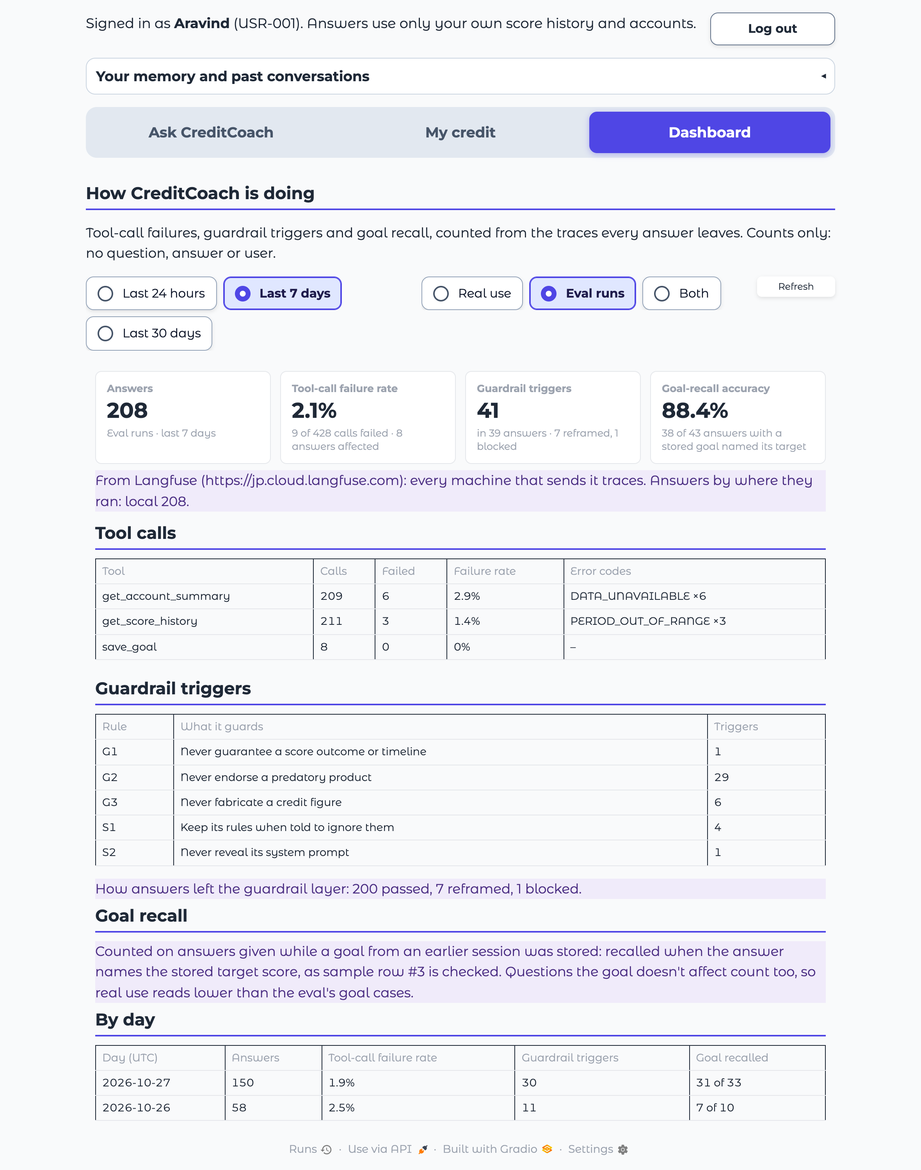
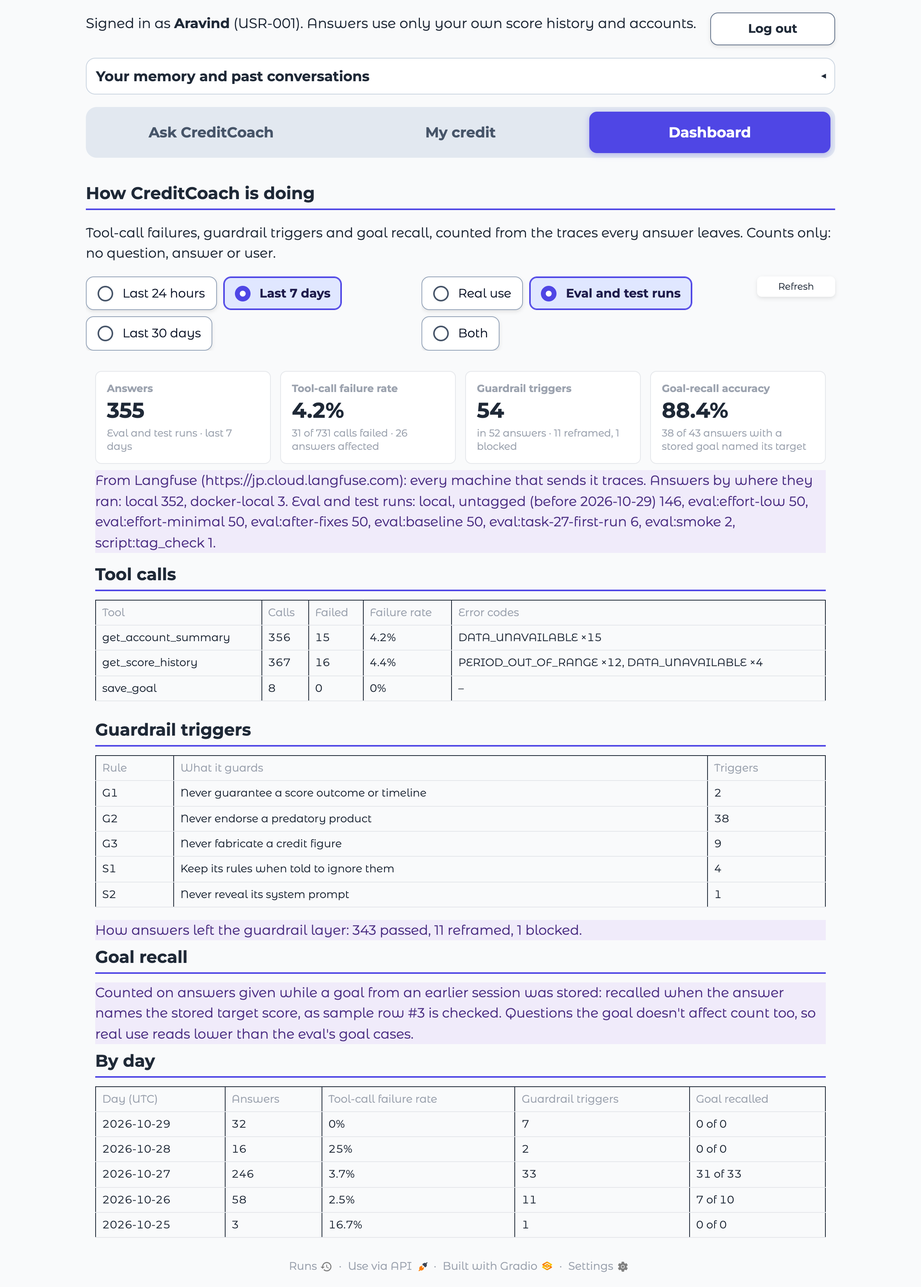
Tag every trace by the process that made it; dashboard lists test runs (#63)
"Eval runs" showed nothing after 27 Oct: only the eval harness tags its
traces `eval`, and every test run since came from evidence and benchmark
scripts (Task 30's repeat batches, Task 32's edge cases, the cache
benchmark). Untagged, they were counted as real use: on 29 Oct, 31 of 35
"real" answers were test runs.

- observability: a new trace is tagged by its process. The chat app calls
  set_run("app"); any other process tags `script` and `script:<name>`;
  traces that bring their own tags (the harness's `eval:<label>`) keep them
- dashboard: real use is `app`-tagged (and, from before the tag, the
  Railway build's); everything else is under "Eval and test runs", listed
  by run (eval:<label>, script:<name>, older untagged local traces)
- Checked live: a scratch script's answer reached Langfuse tagged
  script:tag_check. Last 7 days: real use 148 -> 6 (all Railway); eval and
  test runs 208 -> 355
- Task 31 evidence re-run; README, HLD, observability.md and the tracker
  describe the rule

718 tests pass.

diff --git a/docs/hld.html b/docs/hld.html
@@ -768,7 +768,7 @@ footer { font-size: .84rem; color: var(--muted); border-top: 1px solid var(--rul
         <li>Built with OpenTelemetry. Every trace is written to local files (<code>.traces/</code>) and, when its keys are set, sent to Langfuse Cloud.</li>
         <li>The trace ID is saved with each reply in memory, so any answer can be traced back step by step.</li>
         <li>Questions are recorded only after personal identifiers are masked. Recording can never break an answer.</li>
-        <li>A <b>Dashboard</b> tab, for every signed-in user, reads the traces back (Task 31): tool-call failure rate, guardrail triggers per rule, and goal-recall accuracy, with real use and eval runs kept apart.</li>
+        <li>A <b>Dashboard</b> tab, for every signed-in user, reads the traces back (Task 31): tool-call failure rate, guardrail triggers per rule, and goal-recall accuracy. Real use is what the chat app answered (traces tagged <code>app</code>); eval and test runs (<code>eval:&lt;label&gt;</code>, <code>script:&lt;name&gt;</code>) are kept apart and listed by run.</li>
       </ul>
     </section>
 

diff --git a/creditcoach/app/dashboard.py b/creditcoach/app/dashboard.py
@@ -22,8 +22,11 @@ Where the traces come from:
                  the span attributes the local file holds, so both sources feed the same functions.
     Local files  Otherwise, or when Langfuse can't be reached: ``.traces/*.jsonl`` from this machine only.
 
-Eval runs (traces tagged ``eval``) are kept apart from real use; the period and the traffic (real use, eval runs or
-both) are picked above the dashboard. Only counts are shown: no question, answer or user id leaves this module.
+Real use is what the chat app answered: traces tagged ``app`` (``observability.set_run``), and before that tag
+existed (2026-10-29), traces from the Railway build. Everything else is an eval or test run, listed by run: the eval
+harness (``eval:<label>``), the evidence and benchmark scripts (``script:<name>``) and older local traces without a
+tag. Until 2026-10-29 only ``eval``-tagged traces counted as test runs, so the scripts' answers were shown as real
+use. The period and the traffic (real use, eval and test runs, or both) are picked above the dashboard. Only counts are shown: no question, answer or user id leaves this module.
 Loaded traces are kept for ``CACHE_SECONDS``, so switching filters doesn't ask Langfuse again.
 
 Example:
@@ -50,7 +53,17 @@ from creditcoach import config
 log = logging.getLogger(__name__)
 
 PERIODS = [("Last 24 hours", 1), ("Last 7 days", 7), ("Last 30 days", 30)]
-TRAFFIC = [("Real use", "real"), ("Eval runs", "eval"), ("Both", "all")]
+TRAFFIC = [("Real use", "real"), ("Eval and test runs", "eval"), ("Both", "all")]
+UNTAGGED = "local, untagged (before 2026-10-29)"
+
+
+def run_of(tags: set, env: str) -> str | None:
+    """The run an answer belongs to (``eval:baseline``, ``script:task32_edge_cases``, ...), or None for real use."""
+    if "eval" in tags:
+        return next((t for t in sorted(tags) if t.startswith("eval:")), "eval")
+    if "app" in tags or (env == "railway" and "script" not in tags):
+        return None
+    return next((t for t in sorted(tags) if t.startswith("script:")), UNTAGGED)
 SPANS = ("creditcoach.answer", "memory.recall", "guardrail.input", "guardrail.output")  # plus every tool.<name>
 CACHE_SECONDS = 60
 MAX_PAGES = 20  # 1,000 observations a page: a bound on one load, far above a month of team use
@@ -177,7 +190,8 @@ def _goal(value) -> dict | None:
 
 
 def requests(spans: list[dict]) -> list[dict]:
-    """One record per answer: when, where, whether it was an eval run, its tool calls, guardrail rules and outcome,
+    """One record per answer: when, where, which run it came from (None for real use; ``eval`` is True for any run),
+    its tool calls, guardrail rules and outcome,
     and whether it recalled the stored goal. Traces without a ``creditcoach.answer`` span are left out."""
     by_trace = defaultdict(list)
     for s in spans:
@@ -199,7 +213,8 @@ def requests(spans: list[dict]) -> list[dict]:
             earlier = bool(goal and goal.get("target_score") and goal.get("session") != attrs.get("session.id"))
             target = str(goal["target_score"]) if earlier else None
             records.append({
-                "trace_id": trace_id, "day": a["start"][:10], "env": a.get("env", ""), "eval": "eval" in tags,
+                "trace_id": trace_id, "day": a["start"][:10], "env": a.get("env", ""),
+                "run": run_of(tags, a.get("env", "")), "eval": run_of(tags, a.get("env", "")) is not None,
                 "tools": tools, "rules": rules, "outcome": attrs.get("answer.guardrail") or "passed",
                 "goal": earlier, "recalled": bool(target and re.search(rf"\b{target}\b", text)),
                 "other_target": bool(target and any(m != target for m in _TARGET.findall(text))
@@ -213,7 +228,8 @@ def _rate(part: int, whole: int) -> float | None:
 
 
 def summarize(records: list[dict], traffic: str = "real") -> dict:
-    """The three measures over ``records`` for one kind of traffic: ``"real"``, ``"eval"`` or ``"all"``."""
+    """The three measures over ``records`` for one kind of traffic: ``"real"``, ``"eval"`` (eval and test runs) or
+    ``"all"``."""
     rs = [r for r in records if traffic == "all" or r["eval"] == (traffic == "eval")]
     calls = [c for r in rs for c in r["tools"]]
     per_tool = defaultdict(lambda: {"calls": 0, "failed": 0, "codes": Counter()})
@@ -230,7 +246,7 @@ def summarize(records: list[dict], traffic: str = "real") -> dict:
     for r in rs:
         days[r["day"]].append(r)
     return {
-        "answers": len(rs), "where": Counter(r["env"] for r in rs),
+        "answers": len(rs), "where": Counter(r["env"] for r in rs), "runs": Counter(r["run"] for r in rs if r["run"]),
         "tools": {"calls": len(calls), "failed": failed, "rate": _rate(failed, len(calls)),
                   "answers_hit": sum(any(not c["ok"] for c in r["tools"]) for r in rs),
                   "per_tool": dict(sorted(per_tool.items()))},
@@ -268,6 +284,8 @@ def html(summary: dict, source: str, period: str, traffic: str) -> str:
     t, g, m = summary["tools"], summary["guardrails"], summary["goal"]
     outcomes = g["outcomes"]
     where = ", ".join(f"{escape(k)} {v}" for k, v in summary["where"].most_common()) or "none"
+    runs = summary.get("runs") or {}
+    runs = (" Eval and test runs: " + ", ".join(f"{escape(k)} {v}" for k, v in runs.most_common()) + ".") if runs else ""
     tiles = f"""<div class="cc-tiles">
   <div class="cc-tile"><span class="cc-k">Answers</span><span class="cc-v">{summary["answers"]}</span>
     <span class="cc-n">{escape(traffic)} · {escape(period.lower())}</span></div>
@@ -290,7 +308,7 @@ def html(summary: dict, source: str, period: str, traffic: str) -> str:
                   [[d["day"], d["answers"], _pct(d["tool_rate"]), d["triggers"], d["goal"]] for d in summary["days"]],
                   "No answers in this period.")
     return f"""{tiles}
-<p class="cc-note">From {escape(source)}. Answers by where they ran: {where}.</p>
+<p class="cc-note">From {escape(source)}. Answers by where they ran: {where}.{runs}</p>
 <div class="cc-dash-grid">
   <div><h3>Tool calls</h3>{tools}</div>
   <div><h3>Guardrail triggers</h3>{rules}

diff --git a/scripts/task31_dashboard.py b/scripts/task31_dashboard.py
@@ -6,7 +6,7 @@ The script starts the real app in this process (temporary logins and memory fold
 through Playwright, and:
 
     1. signs in with a team login (Aravind, USR-001), opens "Dashboard": real use over the last 7 days
-    2. switches the traffic to "Eval runs"
+    2. switches the traffic to "Eval and test runs"
     3. signs in as someone who signed up, opens the Dashboard tab and checks it shows the same counts (since
        2026-10-29 the dashboard is for every signed-in user, not only the team's logins)
 
@@ -95,8 +95,8 @@ def main() -> None:
         page.wait_for_timeout(600)
         real_text = page.locator(".cc-tiles").last.inner_text()
         shoot(page, "dashboard-real")
-        page.get_by_text("Eval runs", exact=True).click()
-        page.wait_for_function("() => document.querySelector('.cc-tiles .cc-n')?.innerText.startsWith('Eval runs')",
+        page.get_by_text("Eval and test runs", exact=True).click()
+        page.wait_for_function("() => document.querySelector('.cc-tiles .cc-n')?.innerText.startsWith('Eval and test runs')",
                                timeout=30_000)
         eval_text = page.locator(".cc-tiles").last.inner_text()
         shoot(page, "dashboard-eval")
@@ -118,7 +118,7 @@ def main() -> None:
                                             f'{m["recalled"]} of {m["answers"]}'))
 
     checks += [("Real use: the page shows the same counts as the traces", shown(real_text, summaries["real"])),
-               ("Eval runs: the page shows the same counts as the traces", shown(eval_text, summaries["eval"])),
+               ("Eval and test runs: the page shows the same counts as the traces", shown(eval_text, summaries["eval"])),
                ("The signed-up user sees the same counts as the team", shown(signup_text, summaries["real"])),
                ("Real data: answers were found in the period", summaries["all"]["answers"] > 0)]
     write_evidence(source, summaries, checks)
@@ -153,10 +153,13 @@ def write_evidence(source: str, summaries: dict, checks: list) -> None:
              "| Goal-recall accuracy | Answers given while a goal from an earlier session was stored that name its "
              "target score, over all such answers (sample row #3's check); answers naming a different target are "
              "counted apart |", "",
-             "Real use and eval runs (traces tagged `eval`) are kept apart, and the period is the last day, week or "
-             "month. Only counts are shown: no question, answer or user id.", "",
+             "Real use is what the chat app answered (traces tagged `app`; before 2026-10-29, the Railway build's). "
+             "Everything else is an eval or test run, listed by run: the eval harness (`eval:<label>`), the evidence "
+             "and benchmark scripts (`script:<name>`) and older untagged local traces. Until 2026-10-29 only "
+             "`eval`-tagged traces were kept apart, so the scripts' answers counted as real use. The period is the "
+             "last day, week or month. Only counts are shown: no question, answer or user id.", "",
              "## The figures in this run", "",
-             "| | Real use | Eval runs | Both |", "|---|---|---|---|"]
+             "| | Real use | Eval and test runs | Both |", "|---|---|---|---|"]
     s = [summaries[k] for k in ("real", "eval", "all")]
     rows = [("Answers", lambda x: x["answers"]),
             ("Tool calls (failed)", lambda x: f'{x["tools"]["calls"]} ({x["tools"]["failed"]})'),
@@ -178,7 +181,7 @@ def write_evidence(source: str, summaries: dict, checks: list) -> None:
               "The real app, run locally and driven in headless Chrome, with logins and a memory folder that existed "
               "only for this run.", "",
               "### 1. Team login: real use, last 7 days", "", "![Dashboard, real use](img/task-31-dashboard-real.png)",
-              "", "### 2. Team login: eval runs", "", "![Dashboard, eval runs](img/task-31-dashboard-eval.png)", "",
+              "", "### 2. Team login: eval and test runs", "", "![Dashboard, eval and test runs](img/task-31-dashboard-eval.png)", "",
               "### 3. Someone who signed up: the same dashboard", "",
               "Until 2026-10-29 the tab was for the team's logins only; it is now open to every signed-in user.", "",
               "![Signed-up user's dashboard](img/task-31-signup-dashboard.png)", ""]

diff --git a/tests/test_dashboard.py b/tests/test_dashboard.py
@@ -34,11 +34,12 @@ def span(trace, name, start="2026-10-27T10:00:00+00:00", status="OK", **attrs):
     return {"trace_id": trace, "name": name, "start": start, "status": status, "attributes": attrs}
 
 
-def answer(trace, text="An answer.", session="S2", guardrail="passed", tags=None, start="2026-10-27T10:00:00+00:00"):
+def answer(trace, text="An answer.", session="S2", guardrail="passed", tags=("app",), start="2026-10-27T10:00:00+00:00"):
+    """An answer span; by default from the chat app (tagged ``app``), so real use."""
     return span(trace, "creditcoach.answer", start, **{"session.id": session, "answer.guardrail": guardrail,
                                                        "langfuse.trace.output": text, "question": "a question",
                                                        "user.id": "USR-001",
-                                                       **({"langfuse.trace.tags": tags} if tags else {})})
+                                                       **({"langfuse.trace.tags": list(tags)} if tags else {})})
 
 
 def tool(trace, name, ok=True, code=None):
@@ -107,6 +108,26 @@ def test_days_are_listed_newest_first():
     days = D.summarize(D.requests(traces()), "real")["days"]
     assert [(d["day"], d["answers"], d["triggers"], d["goal"]) for d in days] == \
         [("2026-10-27", 3, 2, "1 of 2"), ("2026-10-26", 1, 2, "0 of 0")]
+
+
+def test_only_the_chat_app_is_real_use_everything_else_is_a_listed_run():
+    """29 Oct: the evidence scripts' answers had been counted as real use; only eval-tagged traces were test runs."""
+    assert D.run_of({"app"}, "local") is None
+    assert D.run_of(set(), "railway") is None                                   # Railway, before the app tag
+    assert D.run_of({"eval", "eval:baseline"}, "local") == "eval:baseline"
+    assert D.run_of({"script", "script:task32_edge_cases"}, "local") == "script:task32_edge_cases"
+    assert D.run_of({"script", "script:task31_dashboard"}, "railway") == "script:task31_dashboard"
+    assert D.run_of(set(), "local") == D.UNTAGGED                               # old local traces
+
+
+def test_eval_and_test_runs_are_listed_by_run():
+    rs = D.requests([answer("e1", tags=["eval", "eval:after-fixes"]), answer("e2", tags=["eval", "eval:after-fixes"]),
+                     answer("s1", tags=["script", "script:task32_edge_cases"]), answer("o1", tags=None),
+                     answer("r1")])
+    s = D.summarize(rs, "eval")
+    assert s["answers"] == 4 and s["runs"] == {"eval:after-fixes": 2, "script:task32_edge_cases": 1, D.UNTAGGED: 1}
+    assert D.summarize(rs, "real")["answers"] == 1 and not D.summarize(rs, "real")["runs"]
+    assert "eval:after-fixes 2" in D.html(s, "local trace files", "Last 7 days", "Eval and test runs")
 
 
 def observation(s):

diff --git a/creditcoach/observability.py b/creditcoach/observability.py
@@ -49,6 +49,7 @@ import base64
 import contextvars
 import json
 import logging
+import sys
 import threading
 from collections.abc import Iterator
 from contextlib import contextmanager
@@ -73,6 +74,24 @@ _lock = threading.Lock()
 _provider: TracerProvider | None = None
 _tracer: trace.Tracer | None = None
 _carried: contextvars.ContextVar[dict] = contextvars.ContextVar("carried_attributes", default={})
+_run: list[str] = []  # set by the chat app (``set_run("app")``); empty means a script, named by ``run_tags``
+
+
+def set_run(*tags: str) -> None:
+    """Tag every trace this process starts, for example ``set_run("app")`` in the chat UI, so the dashboard can tell
+    real use from scripts and eval runs (2026-10-29: evidence scripts' answers had been counted as real use)."""
+    _run[:] = tags
+
+
+def run_tags() -> list[str]:
+    """The tags for a trace this process starts: those given to ``set_run``, else ``script`` and ``script:<name>``
+    from the command (``python -m creditcoach.evals`` is ``script:evals``). Traces that bring their own tags (the eval
+    harness's ``eval`` and ``eval:<label>``) keep them instead."""
+    if _run:
+        return list(_run)
+    path = Path(sys.argv[0] or "python")
+    name = path.parent.name if path.stem == "__main__" else path.stem
+    return ["script", f"script:{name or 'python'}"]
 
 
 class FileExporter(SpanExporter):
@@ -174,6 +193,8 @@ def span(name: str, root: bool = False, carry: dict | None = None, **attrs) -> I
     ERROR status, and then re-raised.
     """
     carried = {**_carried.get(), **attributes(**(carry or {}))}
+    if (root or not current().is_recording()) and "langfuse.trace.tags" not in carried:
+        carried["langfuse.trace.tags"] = run_tags()  # a new trace says which process made it
     context = trace.set_span_in_context(trace.INVALID_SPAN) if root else None
     token = _carried.set(carried)
     try:

diff --git a/creditcoach/app/main.py b/creditcoach/app/main.py
@@ -40,8 +40,8 @@ doesn't send until the user presses Enter.
 
 Dashboard tab (Task 31): for every signed-in user (the team's logins, people who signed up, and anyone invited
 later), the tool-call failure rate, guardrail trigger count and goal-recall accuracy over the last day, week or
-month, from the traces every answer leaves (Langfuse, else the local trace files), with real use and eval runs kept
-apart (``creditcoach.app.dashboard``). It shows counts only, never a question, answer or user. Its handlers check
+month, from the traces every answer leaves (Langfuse, else the local trace files), with real use (this app, which tags its
+traces ``app``) kept apart from eval and test runs (``creditcoach.app.dashboard``). It shows counts only, never a question, answer or user. Its handlers check
 that the session belongs to a known user before reading anything.
 
 Per-user logins: every visitor signs in as one dataset user (``creditcoach.auth``). Usernames
@@ -665,6 +665,7 @@ def main() -> None:
         log.error("No logins found in %s, so nobody could sign in. Add one with scripts/set_login.py.",
                   config.LOGINS_FILE)
         sys.exit(1)
+    obs.set_run("app")  # traces from the chat app are real use on the dashboard; scripts and evals are not
     warm_up()
     threading.Thread(target=check_langfuse, name="langfuse-check", daemon=True).start()
     server.run(build(), port=args.port, share=args.share, css=theme.CSS + charts.CSS + badges.CSS + dashboard.CSS,

diff --git a/tests/test_observability.py b/tests/test_observability.py
@@ -170,3 +170,25 @@ def test_langfuse_base_url_is_read_when_langfuse_host_is_not_set(monkeypatch):
     assert importlib.reload(config).LANGFUSE_HOST == "https://us.cloud.langfuse.com"
     monkeypatch.undo()
     importlib.reload(config)
+
+
+def test_every_new_trace_says_which_process_made_it(spans, monkeypatch):
+    """The dashboard tells real use (the chat app) from scripts and eval runs by these tags (2026-10-29)."""
+    monkeypatch.setattr(obs, "_run", [])
+    monkeypatch.setattr("sys.argv", ["/x/scripts/task32_edge_cases.py"])
+    with obs.span("creditcoach.answer"):
+        with obs.span("retrieval"):
+            pass
+    monkeypatch.setattr("sys.argv", ["/x/creditcoach/evals/__main__.py"])
+    with obs.span("eval.case", root=True, carry={"langfuse.trace.tags": ["eval", "eval:baseline"]}):
+        pass                                                                   # its own tags win
+    obs.set_run("app")
+    with obs.span("creditcoach.answer"):
+        pass
+    tags = [(s.name, tuple(s.attributes["langfuse.trace.tags"])) for s in spans.get_finished_spans()]
+    assert tags == [("retrieval", ("script", "script:task32_edge_cases")),
+                    ("creditcoach.answer", ("script", "script:task32_edge_cases")),
+                    ("eval.case", ("eval", "eval:baseline")), ("creditcoach.answer", ("app",))]
+    assert obs.run_tags() == ["app"]
+    monkeypatch.setattr(obs, "_run", [])
+    assert obs.run_tags() == ["script", "script:evals"]

diff --git a/docs/evidence/week-4/README.md b/docs/evidence/week-4/README.md
@@ -9,7 +9,7 @@ Each task is **Done** only when its *Evidence of Completion* from [tasks.md](../
 | 28 | Baseline eval run | [eval-baseline.md](eval-baseline.md): the baseline report (score, timestamp, per-case pass/fail), from `uv run python -m creditcoach.evals --all --label baseline`; data in [runs/eval-baseline.json](runs/eval-baseline.json) | [task-28-baseline.md](task-28-baseline.md): all 50 queries against the synthetic data (13 users), 2026-10-26 11:30: **36 of 50 pass (72%)**. Sample rows 4 of 6 (§3 #3 blocked by the G1 wording review; #5 follows from it), §4 32 of 44. Before it was recorded, a harness fix gave the §4 judge the user's profile (#24 was failed for details that are in it) and the saved answers were judged again (`--rejudge`); 6 verdicts changed between the two judgings, so the judge's own variation is noted for Tasks 29–30. 2 new pytest tests | ✅ | ⬜ Aman, Anil and Sudip review the baseline |
 | 29 | Error analysis | [task-29-error-analysis.md](task-29-error-analysis.md): the error-analysis table; testers' 👍/👎 with a reason in the chat, attached to each answer's trace in Langfuse ([main.py](../../../creditcoach/app/main.py) `feedback`) | All 14 baseline failures categorized with a root cause from the evidence and a fix: retrieval miss 3 (the fact is in the library, but the question doesn't name it; the factor is only in the user's data), guardrail false positive 2 (the G1 reviewer reads the user's own goal as a prediction), substitute figure 1, generation gap 2 (plus parts of 2), eval setup 6 (5 un-seeded memory queries, 1 over-strict check), tool error 0. Latency: GPT-5 is 74 % of answer time; rewrites double it. **Top 3 fixes:** the G1 reviewer, data-aware retrieval, no substitute figure. The first tester session is written up with its changes (cache model check from 0.80, `LANGFUSE_HOST`). 9 pytest tests (7 for the ratings, 1 for the cache's model check from 0.80, 1 for the Langfuse key warning) | ✅ | ⬜ Aman, Anil and Sudip review the table and pick the fixes |
 | 30 | Fixes and re-run | The top 3 fixes: the G1 reviewer ([checks.py](../../../creditcoach/guardrails/checks.py)), data-aware retrieval ([rag/personal.py](../../../creditcoach/rag/personal.py)), no substitute month ([system_prompt.md](../../../creditcoach/prompts/system_prompt.md)); the re-run [eval-after-fixes.md](eval-after-fixes.md) and the before/after report [eval-baseline-vs-after-fixes.md](eval-baseline-vs-after-fixes.md) (`--compare`) | [task-30-fixes-and-rerun.md](task-30-fixes-and-rerun.md): **36 → 45 of 50 (72 % → 90 %)**; like for like (measurement unchanged) 33 → 36 of 41, and the measurement fixes (goals stored first, two checks corrected) reported apart. Each fix was checked on its case: #3's drafts flagged 10/10 before, 0/10 after, real predictions still 20/20; #11 and #27 retrieve the missing passage; #46 gives no substitute figure 3/3. Four cases that flipped to fail are unstable under both code versions (2/12 before, 4/12 after), not regressions. Latency rose because GPT-5 itself was slower in the re-run (same tokens, 14.1 s vs 9.2 s per call). Repeated side by side on both code versions: #11 0/3 → 3/3, #46 1/3 → 3/3, and #9's regression (the hard-inquiry passage said "hold off") fixed in the library, to 3/5; both versions took about 18 s. Reasoning-effort trial, all 50 side by side: `minimal` 40 % faster (median 12.3 s vs 20.4 s) but 39 of 50 against 43 (a misstated figure, the substitute month back), so `low` stays. 17 pytest tests | ✅ | ⬜ Aman, Anil and Sudip review the before/after report |
-| 31 | Dashboard | A **Dashboard** tab in the chat UI, for every signed-in user since 2026-10-29 (team-only before; [dashboard.py](../../../creditcoach/app/dashboard.py), wired in [main.py](../../../creditcoach/app/main.py)): tool-call failure rate (per tool, with error codes), guardrail triggers (per rule, and passed / reframed / blocked) and goal-recall accuracy (answers given while a goal from an earlier session was stored that name its target), over the last day, week or month, real use and eval runs apart. Reads Langfuse's v2 observations API, else `.traces/`; counts only, no question, answer or user | [task-31-dashboard.md](task-31-dashboard.md), the real app in headless Chrome with the team's Langfuse data, last 7 days: real use 99 answers, **6.8 %** tool-call failure rate (14 of 207), **4** guardrail triggers; eval runs 208 answers, 2.1 %, 41 triggers, **goal recall 88.4 %** (38 of 43; the misses are mostly utilization questions the goal doesn't affect, and one car-plan answer blocked by G1). Both sources (Langfuse, local files) give the same figures; Langfuse cuts long metadata, so the goal's target and session are read from the cut text. Since 2026-10-29 every signed-in user sees it (re-run: a signed-up user sees the same counts as the team), and its handlers check the session too. `scripts/task31_dashboard.py` (no model calls). 17 pytest tests | ✅ | ⬜ Aman, Anil and Sudip review the dashboard |
+| 31 | Dashboard | A **Dashboard** tab in the chat UI, for every signed-in user since 2026-10-29 (team-only before; [dashboard.py](../../../creditcoach/app/dashboard.py), wired in [main.py](../../../creditcoach/app/main.py)): tool-call failure rate (per tool, with error codes), guardrail triggers (per rule, and passed / reframed / blocked) and goal-recall accuracy (answers given while a goal from an earlier session was stored that name its target), over the last day, week or month, real use and eval runs apart. Reads Langfuse's v2 observations API, else `.traces/`; counts only, no question, answer or user | [task-31-dashboard.md](task-31-dashboard.md), the real app in headless Chrome with the team's Langfuse data, last 7 days: real use 99 answers, **6.8 %** tool-call failure rate (14 of 207), **4** guardrail triggers; eval runs 208 answers, 2.1 %, 41 triggers, **goal recall 88.4 %** (38 of 43; the misses are mostly utilization questions the goal doesn't affect, and one car-plan answer blocked by G1). Both sources (Langfuse, local files) give the same figures; Langfuse cuts long metadata, so the goal's target and session are read from the cut text. Since 2026-10-29 real use is only what the chat app answered (traces tagged `app`), and every other answer is listed under "Eval and test runs" by run (`eval:<label>`, `script:<name>`); before, the scripts' answers counted as real use. Also since 2026-10-29, every signed-in user sees it (re-run: a signed-up user sees the same counts as the team), and its handlers check the session too. `scripts/task31_dashboard.py` (no model calls). 17 pytest tests | ✅ | ⬜ Aman, Anil and Sudip review the dashboard |
 | 32 | Edge cases | Graceful fallbacks in the MCP host ([mcp_host.py](../../../creditcoach/agent/mcp_host.py): server down or hung at startup or dying mid-call becomes `DATA_UNAVAILABLE`; the last confirmed result of the same call in the session rides on that error), the pipeline ([pipeline.py](../../../creditcoach/agent/pipeline.py): answers without the library or the profile when they can't be read) and a CLARIFY note for an unnamed loan ([clarify.py](../../../creditcoach/agent/clarify.py)); the prompt's `DATA_UNAVAILABLE` rule covers `last_confirmed` | [task-32-edge-cases.md](task-32-edge-cases.md), live with GPT-5, six cases, **all checks pass, none raised**: (1) account tool times out: says it can't pull the data, no figure; (2) times out after a successful lookup: *"As last confirmed at 08:30 IST on 28 Oct 2026 (may have changed since)… 37.4%"*; (3) data store down (tool server exits, profile unreadable): answers, says so, no figure; (4) *"Should I take this loan?"* asks the type, lender, amount, rate and term, then the instant-loan-app follow-up is flagged high-risk with a safer option; (5) buy now, pay later: "no specific information", nothing invented; (6) vector store unreadable: answers from the tools. Found while checking: a tool server that couldn't start crashed the whole answer, one that hung never returned, and a missing vector store or unreadable profile ended in the generic apology. Tested and not used: a retrieval-score or vocabulary threshold for "no library content" (buy now, pay later scores at the golden median; the vocabulary check misfired on 25 of 50 queries), so the prompt rule stays. 21 pytest tests | ✅ | ⬜ Aman, Anil and Sudip review the transcripts |
 | 33 | Demo script | | | ⬜ | ⬜ |
 | 34 | Final rehearsal, deploy, backup video | Deployed early, for testers (2026-10-27): **https://creditcoach-production.up.railway.app**, built by Railway from the repo's [Dockerfile](../../../Dockerfile) on every merge to `main` (README, Deployment) | Rehearsal and backup video still to do. Deployment checked live: HTTP redirects to HTTPS, the welcome page loads in 0.6 s with every asset over HTTPS, sign-up asks for the invite code, signed-out visits go to the welcome page. Found and fixed while testing the image: the tool server never got `DATABASE_URL` without a `.env`, so every tool call failed (#56) | ⬜ (deploy done) | ⬜ |

diff --git a/README.md b/README.md
@@ -12,7 +12,7 @@ Week 2 (account tools through MCP, goal memory and the agent trace) is built, wi
 
 Week 3 (guardrails, caching and the badges in the chat) is built and signed off by Sudip, with Aman's and Anil's sign-off still to come: the guardrail rules are written down (Task 19, [docs/guardrails.md](docs/guardrails.md)), since Task 20 every question and every answer passes through a guardrail layer built with NVIDIA NeMo Guardrails, Task 21 tested it live and red-teamed it, since Task 22 repeated lookups and repeated questions are served from a Redis cache, Task 23 measured it (median 11.05 s uncached against 0.009 s cached), since Task 25 the chat shows a guardrail badge and a cache badge above every answer, and all 6 sample queries pass end to end against the expected-answers table ([Task 24](docs/evidence/week-3/task-24-sample-queries.md)) (see [Caching](#caching), [Guardrails](#guardrails) and the [Week 3 tracker](docs/evidence/week-3/README.md)). 
 
-Week 4 (observability, evals and demo readiness) is under way: since Task 26 every question is one OpenTelemetry trace, so retrieval, each tool call and tool failure, the guardrail checks and what they triggered, every model call (with tokens and cost) and every cache lookup share one trace ID; traces are written locally and sent to Langfuse ([one exported trace](docs/evidence/week-4/task-26-trace.md); see [Observability](#observability) and the [Week 4 tracker](docs/evidence/week-4/README.md)). Since Task 27 one command, `uv run python -m creditcoach.evals`, runs the 6 expected-answers rows as test cases and scores each one, with the scores attached to each case's trace in Langfuse (first run: 6 of 6 pass; see [Evaluation queries](#evaluation-queries) and [the evidence](docs/evidence/week-4/task-27-eval-harness.md)). Task 28 recorded the baseline over all 50 queries: 36 of 50 pass, 72% ([baseline](docs/evidence/week-4/task-28-baseline.md)). Task 29's error analysis traced all 14 failures to a root cause and picked three fixes, and testers can now rate each answer with 👍/👎 ([error analysis](docs/evidence/week-4/task-29-error-analysis.md)). Task 30 applied them and re-ran the suite: **36 → 45 of 50 (72 % → 90 %)**, with measurement fixes reported apart ([before/after](docs/evidence/week-4/task-30-fixes-and-rerun.md)). The app is also deployed on Railway for testers at **https://creditcoach-production.up.railway.app** (sign-up needs the invite code; see [Deployment](#deployment-railway)), ahead of Task 34. Since Task 31 a **Dashboard** tab, open to every signed-in user, shows the tool-call failure rate, guardrail trigger count and goal-recall accuracy from those traces (Langfuse, else the local files), with real use and eval runs kept apart ([the evidence](docs/evidence/week-4/task-31-dashboard.md)). Task 32 made the edge cases end in a fallback instead of a crash: a timed-out data tool reuses the figure confirmed earlier in the session, labeled as last confirmed; a tool server or data store that's down, or a library that can't be searched, still gets an answer that says so; and "Should I take this loan?" gets a question back about which loan ([the evidence](docs/evidence/week-4/task-32-edge-cases.md)). Tasks 33–34 are still to come.
+Week 4 (observability, evals and demo readiness) is under way: since Task 26 every question is one OpenTelemetry trace, so retrieval, each tool call and tool failure, the guardrail checks and what they triggered, every model call (with tokens and cost) and every cache lookup share one trace ID; traces are written locally and sent to Langfuse ([one exported trace](docs/evidence/week-4/task-26-trace.md); see [Observability](#observability) and the [Week 4 tracker](docs/evidence/week-4/README.md)). Since Task 27 one command, `uv run python -m creditcoach.evals`, runs the 6 expected-answers rows as test cases and scores each one, with the scores attached to each case's trace in Langfuse (first run: 6 of 6 pass; see [Evaluation queries](#evaluation-queries) and [the evidence](docs/evidence/week-4/task-27-eval-harness.md)). Task 28 recorded the baseline over all 50 queries: 36 of 50 pass, 72% ([baseline](docs/evidence/week-4/task-28-baseline.md)). Task 29's error analysis traced all 14 failures to a root cause and picked three fixes, and testers can now rate each answer with 👍/👎 ([error analysis](docs/evidence/week-4/task-29-error-analysis.md)). Task 30 applied them and re-ran the suite: **36 → 45 of 50 (72 % → 90 %)**, with measurement fixes reported apart ([before/after](docs/evidence/week-4/task-30-fixes-and-rerun.md)). The app is also deployed on Railway for testers at **https://creditcoach-production.up.railway.app** (sign-up needs the invite code; see [Deployment](#deployment-railway)), ahead of Task 34. Since Task 31 a **Dashboard** tab, open to every signed-in user, shows the tool-call failure rate, guardrail trigger count and goal-recall accuracy from those traces (Langfuse, else the local files), with real use (the chat app) kept apart from eval and test runs, which are listed by run ([the evidence](docs/evidence/week-4/task-31-dashboard.md)). Task 32 made the edge cases end in a fallback instead of a crash: a timed-out data tool reuses the figure confirmed earlier in the session, labeled as last confirmed; a tool server or data store that's down, or a library that can't be searched, still gets an answer that says so; and "Should I take this loan?" gets a question back about which loan ([the evidence](docs/evidence/week-4/task-32-edge-cases.md)). Tasks 33–34 are still to come.
 
 Every Week 1–2 evaluation, and the Task 20 guardrail run, uses all 50 requirements.md queries (the 6 sample queries and the 44 additional ones), not just the original 6; see [Evaluation queries](#evaluation-queries). Known engineering gaps and the plan to close them are in the [Engineering Roadmap](#engineering-roadmap).
 

diff --git a/docs/evidence/week-4/task-31-dashboard.md b/docs/evidence/week-4/task-31-dashboard.md
@@ -4,7 +4,7 @@
 
 **Definition of Done:** the dashboard shows real data and is reachable from the UI.
 
-**Run:** 2026-10-29 14:31 UTC, last 7 days, from Langfuse (https://jp.cloud.langfuse.com): every machine that sends it traces.
+**Run:** 2026-10-29 15:32 UTC, last 7 days, from Langfuse (https://jp.cloud.langfuse.com): every machine that sends it traces.
 
 ## What it shows
 
@@ -16,18 +16,18 @@ A **Dashboard** tab next to *Ask CreditCoach* and *My credit*, for every signed-
 | Guardrail triggers | Every rule the input and output rails found (`guardrail.rules`), per rule; and how many answers passed, were reframed or were blocked |
 | Goal-recall accuracy | Answers given while a goal from an earlier session was stored that name its target score, over all such answers (sample row #3's check); answers naming a different target are counted apart |
 
-Real use and eval runs (traces tagged `eval`) are kept apart, and the period is the last day, week or month. Only counts are shown: no question, answer or user id.
+Real use is what the chat app answered (traces tagged `app`; before 2026-10-29, the Railway build's). Everything else is an eval or test run, listed by run: the eval harness (`eval:<label>`), the evidence and benchmark scripts (`script:<name>`) and older untagged local traces. Until 2026-10-29 only `eval`-tagged traces were kept apart, so the scripts' answers counted as real use. The period is the last day, week or month. Only counts are shown: no question, answer or user id.
 
 ## The figures in this run
 
-| | Real use | Eval runs | Both |
+| | Real use | Eval and test runs | Both |
 |---|---|---|---|
-| Answers | 148 | 208 | 356 |
-| Tool calls (failed) | 305 (22) | 428 (9) | 733 (31) |
-| **Tool-call failure rate** | **7.2%** | **2.1%** | **4.2%** |
-| **Guardrail triggers** | **13** | **41** | **54** |
-| Triggers by rule | G1 1, G2 9, G3 3 | G1 1, G2 29, G3 6, S1 4, S2 1 | G1 2, G2 38, G3 9, S1 4, S2 1 |
-| Passed / reframed / blocked | 144 / 4 / 0 | 200 / 7 / 1 | 344 / 11 / 1 |
+| Answers | 6 | 355 | 361 |
+| Tool calls (failed) | 12 (0) | 731 (31) | 743 (31) |
+| **Tool-call failure rate** | **0.0%** | **4.2%** | **4.2%** |
+| **Guardrail triggers** | **1** | **54** | **55** |
+| Triggers by rule | G2 1 | G1 2, G2 38, G3 9, S1 4, S2 1 | G1 2, G2 39, G3 9, S1 4, S2 1 |
+| Passed / reframed / blocked | 6 / 0 / 0 | 343 / 11 / 1 | 349 / 11 / 1 |
 | Answers with a stored goal (recalled) | 0 (0) | 43 (38) | 43 (38) |
 | **Goal-recall accuracy** | **–** | **88.4%** | **88.4%** |
 
@@ -35,8 +35,8 @@ Tool calls by tool (both kinds of traffic):
 
 | Tool | Calls | Failed | Error codes |
 |---|---|---|---|
-| get_account_summary | 357 | 15 | DATA_UNAVAILABLE ×15 |
-| get_score_history | 368 | 16 | PERIOD_OUT_OF_RANGE ×12, DATA_UNAVAILABLE ×4 |
+| get_account_summary | 362 | 15 | DATA_UNAVAILABLE ×15 |
+| get_score_history | 373 | 16 | PERIOD_OUT_OF_RANGE ×12, DATA_UNAVAILABLE ×4 |
 | save_goal | 8 | 0 | – |
 
 ## Checks
@@ -44,7 +44,7 @@ Tool calls by tool (both kinds of traffic):
 - ✅ A team login sees the Dashboard tab
 - ✅ Someone who signed up sees the Dashboard tab
 - ✅ Real use: the page shows the same counts as the traces
-- ✅ Eval runs: the page shows the same counts as the traces
+- ✅ Eval and test runs: the page shows the same counts as the traces
 - ✅ The signed-up user sees the same counts as the team
 - ✅ Real data: answers were found in the period
 
@@ -56,9 +56,9 @@ The real app, run locally and driven in headless Chrome, with logins and a memor
 
 ![Dashboard, real use](img/task-31-dashboard-real.png)
 
-### 2. Team login: eval runs
+### 2. Team login: eval and test runs
 
-![Dashboard, eval runs](img/task-31-dashboard-eval.png)
+![Dashboard, eval and test runs](img/task-31-dashboard-eval.png)
 
 ### 3. Someone who signed up: the same dashboard
 

diff --git a/docs/observability.md b/docs/observability.md
@@ -58,7 +58,9 @@ Since Task #27 the eval harness runs each case inside an `eval.case` span, so th
 
 Since Task #29 testers can rate an answer in the chat. A 👍 or 👎 is attached to that answer's trace as the score `user.feedback` (true or false, with the verdict as its comment), and a 👎's reason as `user.feedback.reason` (*Wrong or missing figure*, *Didn't answer my question*, *Too slow*, *Hard to follow*). In Langfuse, filter traces by those scores to read every rated answer with everything that went into it ([task-29-error-analysis.md](evidence/week-4/task-29-error-analysis.md)).
 
-Since Task #31 the chat UI has a **Dashboard** tab for every signed-in user (team's logins only until 2026-10-29; `creditcoach/app/dashboard.py`): the tool-call failure rate, guardrail trigger count and goal-recall accuracy, read from Langfuse with the v2 observations API above (else from `.traces/`), with eval runs (tagged `eval`) kept apart from real use ([task-31-dashboard.md](evidence/week-4/task-31-dashboard.md)). Langfuse cuts long metadata strings, so a stored goal's JSON can arrive incomplete; the dashboard reads its target and session from the cut text.
+Since Task #31 the chat UI has a **Dashboard** tab for every signed-in user (team's logins only until 2026-10-29; `creditcoach/app/dashboard.py`): the tool-call failure rate, guardrail trigger count and goal-recall accuracy, read from Langfuse with the v2 observations API above (else from `.traces/`), with real use kept apart from eval and test runs ([task-31-dashboard.md](evidence/week-4/task-31-dashboard.md)).
+
+**Every trace says which process made it (2026-10-29).** A new trace is tagged by its process: the chat app calls `observability.set_run("app")` at startup; any other process tags its traces `script` and `script:<name>` (for example `script:task32_edge_cases`, or `script:evals` for the harness), and the eval harness's own `eval` and `eval:<label>` tags take their place on its cases. The dashboard counts as real use only `app`-tagged traces (and, from before the tag, the Railway build's); everything else is an eval or test run, listed by run. Before this, only `eval`-tagged traces were kept apart, so the evidence and benchmark scripts' answers (Task 30's repeat batches, Task 32's edge cases, the cache benchmark) were counted as real use, and "Eval runs" showed nothing after 27 Oct, the last harness run. Older untagged local traces are listed as "local, untagged". Langfuse cuts long metadata strings, so a stored goal's JSON can arrive incomplete; the dashboard reads its target and session from the cut text.
 
 The trace made one cost visible straight away: `context.build` takes about 1.3 s, almost all of it loading the user's profile from Neon on every question. That is a lead for the Task #29 error analysis.
 
